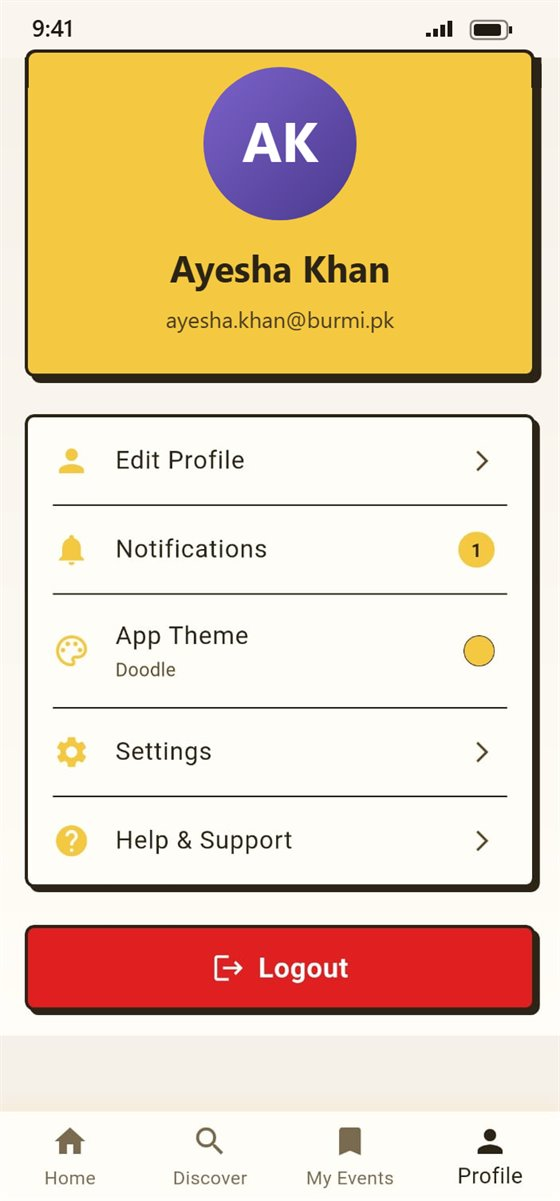
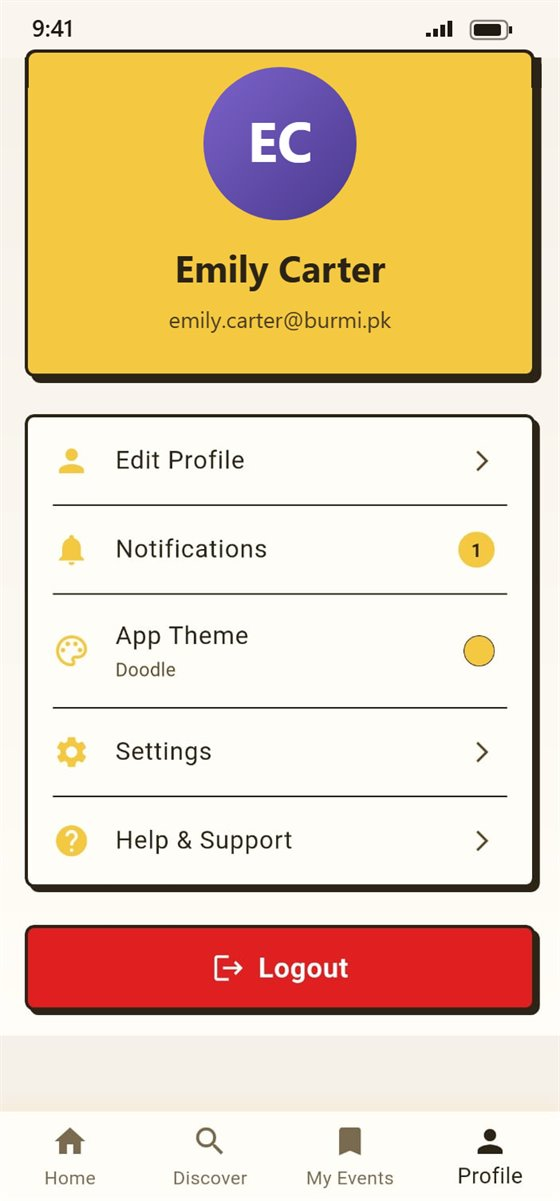
Polish Burmi card: realistic phone frames and staged layout
Also switch the demo profile to a different placeholder name.

Changed region(s): [[0.3036, 0.2157, 0.6982, 0.2773], [0.425, 0.0924, 0.5768, 0.154]]

diff --git a/assets/styles.css b/assets/styles.css
@@ -678,11 +678,39 @@ html.intro-on .hero .reveal { transition-delay: calc(var(--d, 0s) + 1.95s); }
 .u-req em { padding: .2em .6em; border-radius: 99px; white-space: nowrap; font-size: .78em; color: var(--u-muted); background: var(--u-surface); }
 
 /* ---------- real phone screenshots (mobile app cards) ---------- */
-.is-phones { background: radial-gradient(90% 90% at 50% 0%, color-mix(in srgb, var(--accent) 34%, transparent), transparent 62%), linear-gradient(180deg, #121018, #0a0a0f); }
-.phone-shots { inset: 8% 0 -16%; display: flex; justify-content: center; align-items: flex-start; gap: 4%; font-size: 1.7cqw; }
-.pf { margin: 0; width: 26%; aspect-ratio: 9 / 19.5; padding: .45em; border-radius: 2.2em; background: #0b0b0e; border: 1px solid rgba(255, 255, 255, .16); box-shadow: 0 30px 60px -20px rgba(0, 0, 0, .85), inset 0 0 0 .2em #1c1c22; overflow: hidden; }
-.pf img { display: block; width: 100%; height: 100%; object-fit: cover; object-position: top; border-radius: 1.8em; }
-.phone-shots.n3 .pf:nth-child(2) { margin-top: -3%; }
-.phone-shots.n3 .pf:nth-child(1), .phone-shots.n3 .pf:nth-child(3) { margin-top: 6%; }
+.is-phones {
+  background:
+    radial-gradient(55% 70% at 18% 100%, rgba(242, 197, 61, .32), transparent 70%),
+    radial-gradient(60% 75% at 85% 0%, color-mix(in srgb, var(--accent) 55%, transparent), transparent 70%),
+    linear-gradient(180deg, #14111f, #0b0a12);
+}
+.is-phones::before { opacity: .25; }
+.is-phones::after { /* soft floor glow under the phones */
+  content: ""; position: absolute; left: 15%; right: 15%; bottom: -12%; height: 40%;
+  background: radial-gradient(closest-side, rgba(0, 0, 0, .55), transparent); filter: blur(10px); pointer-events: none;
+}
+.phone-shots { inset: 9% 0 -30%; display: flex; justify-content: center; align-items: flex-start; font-size: 1.7cqw; z-index: 1; }
+.pf {
+  position: relative; margin: 0; flex: none; width: 29%; aspect-ratio: 9 / 19.5; padding: .32em; border-radius: 2.7em;
+  background: linear-gradient(150deg, #4a4a55 0%, #1d1d23 35%, #0e0e12 65%, #3a3a44 100%);
+  box-shadow: inset 0 0 0 .14em #08080a, 0 2.4em 3.6em -1em rgba(0, 0, 0, .75), 0 .6em 1.2em -.4em rgba(0, 0, 0, .6);
+  transition: transform .6s var(--ease);
+}
+.pf img { display: block; width: 100%; height: 100%; object-fit: cover; object-position: top; border-radius: 2.4em; }
+.pf::before { /* dynamic island */
+  content: ""; position: absolute; z-index: 2; top: 1.05em; left: 50%; width: 30%; height: 1.05em; transform: translateX(-50%);
+  border-radius: 99px; background: #050506;
+}
+.pf::after { /* glass reflection */
+  content: ""; position: absolute; inset: .32em; border-radius: 2.4em; pointer-events: none;
+  background: linear-gradient(115deg, rgba(255, 255, 255, .16) 0%, rgba(255, 255, 255, .04) 22%, transparent 40%);
+}
+/* three phones: front-center hero, sides tucked behind and angled */
+.phone-shots.n3 .pf:nth-child(2) { z-index: 2; width: 31%; }
+.phone-shots.n3 .pf:nth-child(1) { z-index: 1; margin-right: -6%; transform: translateY(12%) rotate(-7deg) scale(.9); filter: brightness(.82); }
+.phone-shots.n3 .pf:nth-child(3) { z-index: 1; margin-left: -6%; transform: translateY(12%) rotate(7deg) scale(.9); filter: brightness(.82); }
+.proj:hover .phone-shots.n3 .pf:nth-child(1) { transform: translateY(9%) rotate(-9deg) scale(.9) translateX(-4%); }
+.proj:hover .phone-shots.n3 .pf:nth-child(3) { transform: translateY(9%) rotate(9deg) scale(.9) translateX(4%); }
+.phone-shots.n2 { gap: 4%; }
 .phone-shots.n2 .pf:nth-child(2) { margin-top: 7%; }
-.phone-shots.n1 .pf { width: 30%; }
+.phone-shots.n1 .pf { width: 31%; }
